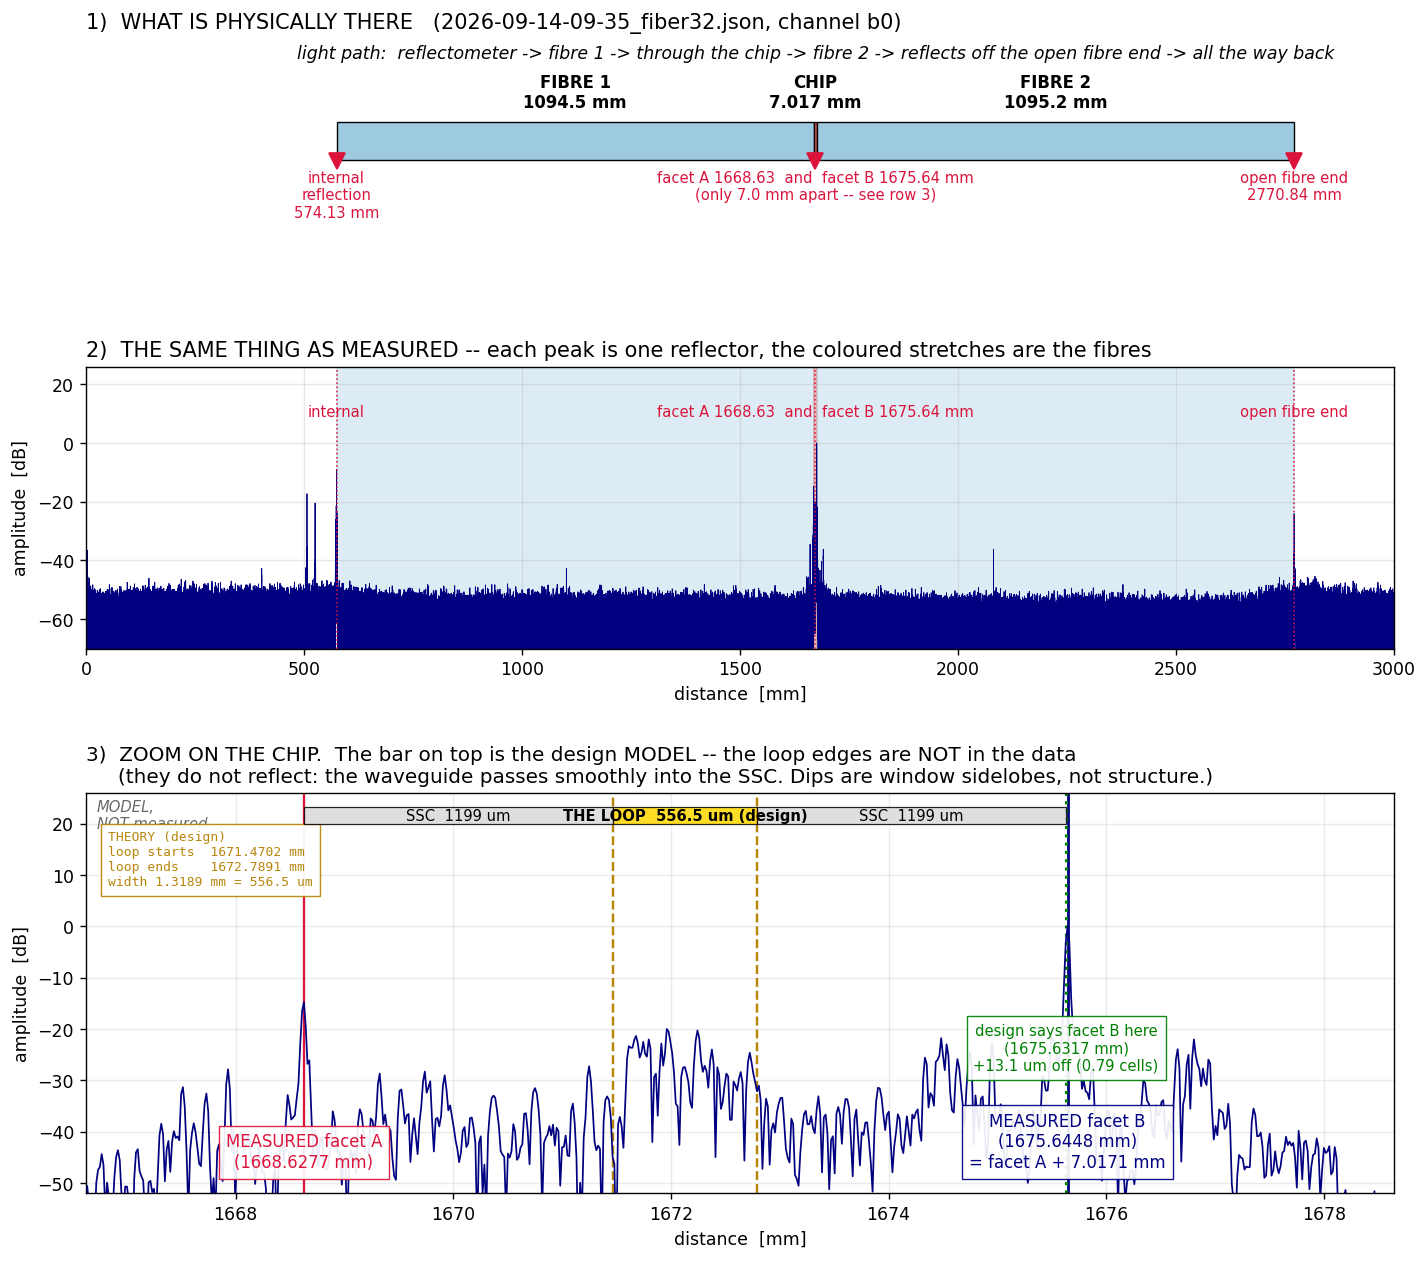
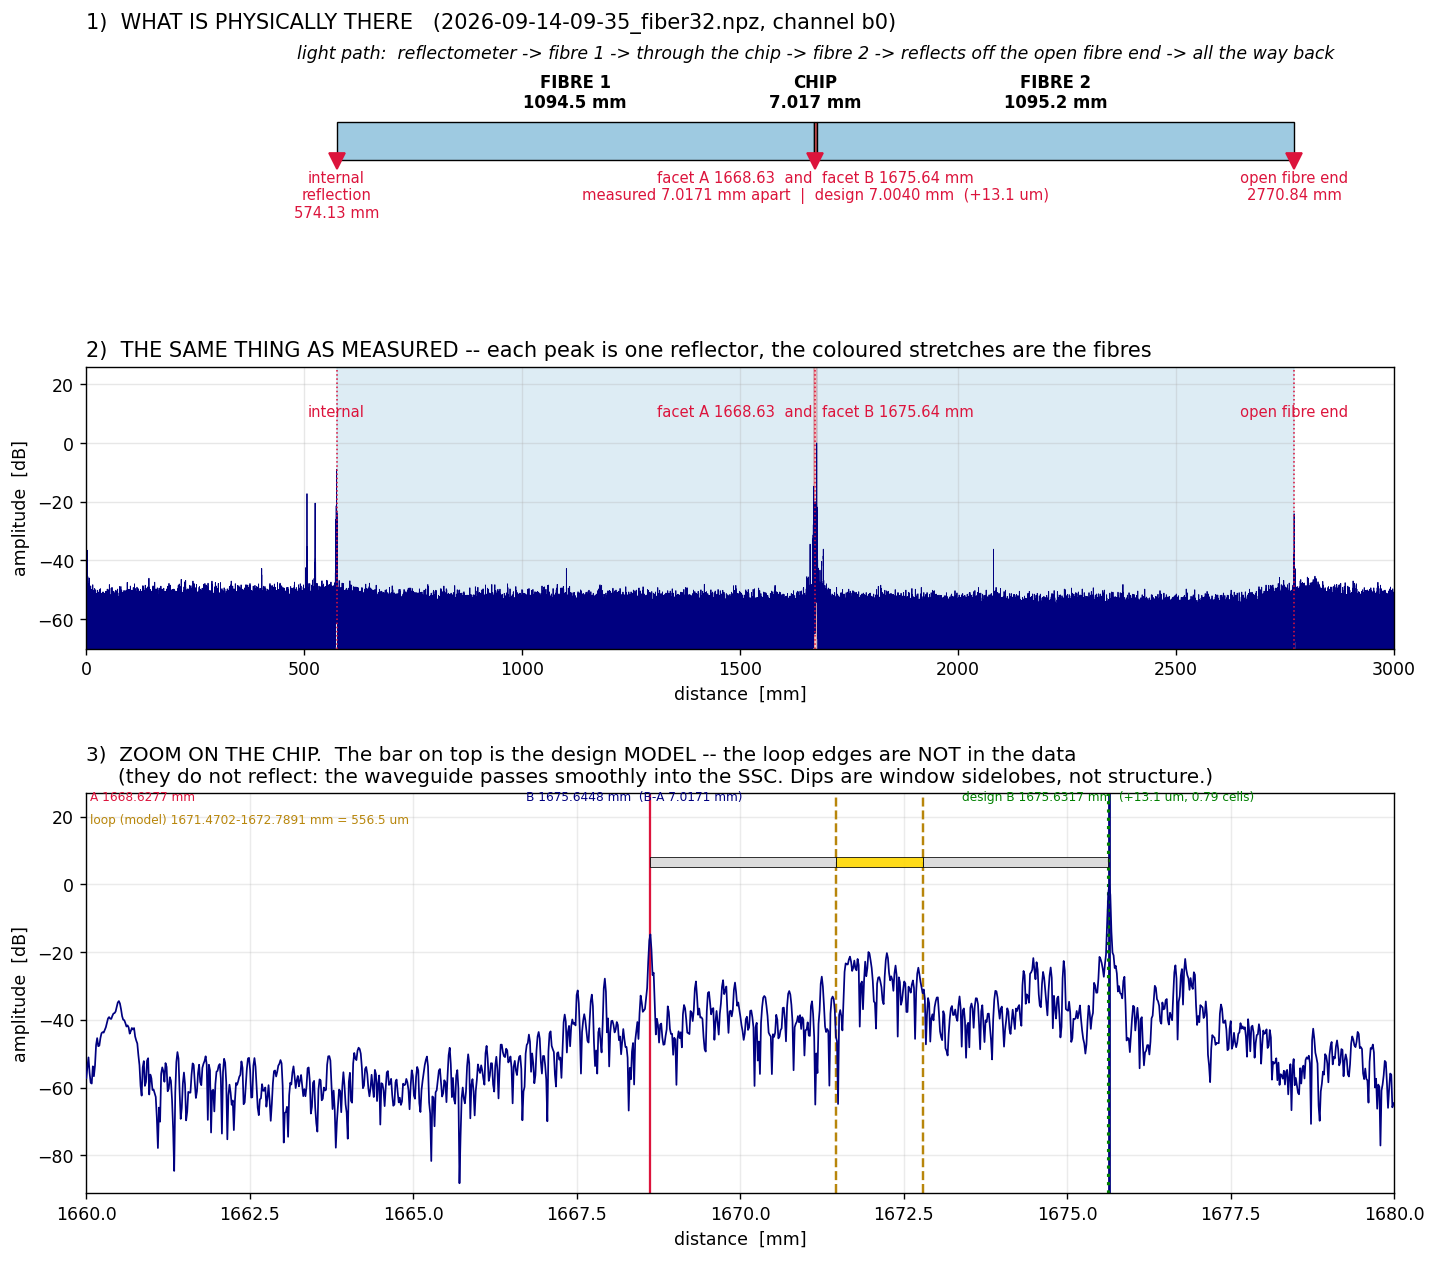
chain plot: uniform 1660-1680mm zoom, design comparison in row 1, saved pre-rescale snapshots
- Panel 3 (chip zoom) now uses a fixed x-window with in-view labels
  (facet A/B positions, measured vs design theory box, loop start/end
  lines) grouped into a compact label row at the top so the trace stays
  fully visible regardless of zoom width (--zoom LO HI).
- Row 1 schematic now also states the design (GDS) facet-to-facet
  distance next to the measured one, e.g. 'measured 7.1830 mm apart |
  design 7.2020 mm (-19.0 um)', for direct comparison at a glance.
- Applied --zoom 1660 1680 to all loopback chain plots from both
  2026-09-11 and 2026-09-14 for a consistent, readable view.
- Saved *_chain_default.png snapshots (generated from the last committed
  script version, i.e. the original wide-box layout) for today's three
  scans, preserving what the plot looked like before this session's
  layout rework.

diff --git a/tools/identify_chip_scan.py b/tools/identify_chip_scan.py
@@ -229,9 +229,14 @@ def chain_plot(a, z, db, ref, za, zb, d_ff, d_loop, res_mm, marks=None):
                     va="bottom", fontweight="bold")
     stations = [(ref, "internal\nreflection\n%.2f mm" % ref)]
     if zb is not None:
+        extra = ""
+        if d_ff:
+            design_apart = d_ff * 1e-3 * STR
+            extra = ("  |  design %.4f mm  (%+.1f um)"
+                     % (design_apart, (zb - za - design_apart) * 1e3))
         stations.append(((za + zb) / 2,
-                         "facet A %.2f  and  facet B %.2f mm\n(only %.1f mm apart "
-                         "-- see row 3)" % (za, zb, zb - za)))
+                         "facet A %.2f  and  facet B %.2f mm\n"
+                         "measured %.4f mm apart%s" % (za, zb, zb - za, extra)))
     else:
         stations.append((za, "facet A\n%.2f mm" % za))
     if far:
@@ -271,64 +276,70 @@ def chain_plot(a, z, db, ref, za, zb, d_ff, d_loop, res_mm, marks=None):
     # ---------------------------------------------------------- Reihe 3
     ax = fig.add_subplot(gs[2])
     span = (zb - za) if zb is not None else 12.0
-    w = (z > za - 2) & (z < za + span + 3)
+    # Fenster von Reihe 3: weit genug, um auch alles neben dem Chip zu
+    # sehen (Default rund 1500..2000 mm), mit --zoom LO HI einstellbar.
+    if getattr(a, "zoom", None):
+        lo3, hi3 = a.zoom
+    else:
+        lo3, hi3 = za - 170.0, za + 330.0
+    w = (z > lo3) & (z < hi3)
     ax.plot(z[w], db[w], lw=1.0, color="navy", zorder=3)
     ax.axvline(za, color="crimson", lw=1.3, zorder=2)
-    ax.annotate("MEASURED facet A\n(%.4f mm)" % za, (za, -47),
-                fontsize=9.5, ha="center", color="crimson",
-                bbox=dict(fc="w", ec="crimson", lw=.8, alpha=.92))
     if zb is not None:
         ax.axvline(zb, color="navy", lw=1.6, zorder=2)
-        ax.annotate("MEASURED facet B\n(%.4f mm)\n= facet A + %.4f mm"
-                    % (zb, zb - za), (zb, -47), fontsize=9.5, ha="center",
-                    color="navy", bbox=dict(fc="w", ec="navy", lw=.8, alpha=.92))
     if zb_e is not None:
         ax.axvline(zb_e, color="green", ls=":", lw=1.8, zorder=2)
-        ax.annotate("design says facet B here\n(%.4f mm)\n%+.1f um off (%.2f cells)"
-                    % (zb_e, (zb - zb_e) * 1e3, (zb - zb_e) / res_mm),
-                    (zb_e, -28), fontsize=8.5, ha="center", color="green",
-                    bbox=dict(fc="w", ec="green", lw=.8, alpha=.92))
 
+    # Alle Kennzahlen als kompakte Zeile(n) OBERHALB der Kurve statt als
+    # Kaesten mitten im Plot -- x in Achsen-Bruchteilen (bleibt also immer
+    # lesbar, egal wie breit --zoom das Fenster macht), y in echten
+    # Datenkoordinaten knapp ueber dem hoechsten sichtbaren Peak.
+    row_items = []
+    row_items.append(("A %.4f mm" % za, "crimson"))
+    if zb is not None:
+        row_items.append(("B %.4f mm  (B-A %.4f mm)" % (zb, zb - za), "navy"))
+    if zb_e is not None:
+        row_items.append(("design B %.4f mm  (%+.1f um, %.2f cells)"
+                          % (zb_e, (zb - zb_e) * 1e3, (zb - zb_e) / res_mm), "green"))
+
+    xs = None
     if d_ff:
         ssc = (d_ff - d_loop) / 2.0
-        yt, h = 20.0, 3.2
-        for s0, s1, c, lab in [(0, ssc, "#d9d9d9", "SSC  %.0f um" % ssc),
-                               (ssc, ssc + d_loop, "gold",
-                                "THE LOOP  %.1f um (design)" % d_loop),
-                               (ssc + d_loop, d_ff, "#d9d9d9", "SSC  %.0f um" % ssc)]:
-            ax.add_patch(Rectangle((za + s0 * 1e-3 * STR, yt),
-                                   (s1 - s0) * 1e-3 * STR, h,
-                                   fc=c, ec="k", lw=.7, alpha=.85, zorder=4))
-            ax.annotate(lab, (za + (s0 + s1) / 2 * 1e-3 * STR, yt + h / 2),
-                        fontsize=8.5, ha="center", va="center", zorder=5,
-                        fontweight="bold" if c == "gold" else "normal")
-        ax.annotate("MODEL,\nNOT measured", (za - 1.9, yt + h / 2), fontsize=8.5,
-                    ha="left", va="center", style="italic", color="dimgray")
-        # Anfang und Ende der Schleife: zwei Linien je Grenze.
-        #   gestrichelt = THEORIE (Designlage aus dem GDS)
-        #   durchgezogen = MESSUNG (naechstliegender echter Peak)
-        # Vorbehalt, der in der Beschriftung steht: die Schleifenenden
-        # reflektieren laut Design gar nicht, der naechste Peak ist also
-        # nicht automatisch die Schleifengrenze -- die Linie zeigt nur,
-        # was dort tatsaechlich gemessen wurde.
-        # THEORIE: zwei gestrichelte Linien, ein gemeinsames Label
         xs = [za + s_um * 1e-3 * STR for s_um in (ssc, ssc + d_loop)]
         for xx in xs:
             ax.axvline(xx, color="darkgoldenrod", ls="--", lw=1.4, zorder=2)
-        ax.annotate("THEORY (design)\nloop starts  %.4f mm\nloop ends    %.4f mm\n"
-                    "width %.4f mm = %.1f um" % (xs[0], xs[1], xs[1] - xs[0], d_loop),
-                    (za - 1.8, 13.0), fontsize=7.5, ha="left", va="center",
-                    color="darkgoldenrod", family="monospace",
-                    bbox=dict(fc="w", ec="darkgoldenrod", lw=.8, alpha=.94))
+        row_items.append(("loop (model) %.4f-%.4f mm = %.1f um"
+                          % (xs[0], xs[1], d_loop), "darkgoldenrod"))
 
     for dzm, lab in (marks or []):
         ax.axvline(za + dzm, color="seagreen", ls=":", lw=1.2, zorder=2)
-        ax.annotate("%s\n(%.3f mm)" % (lab, za + dzm), (za + dzm, -12),
-                    fontsize=8, ha="center", color="darkgreen",
-                    bbox=dict(fc="w", ec="seagreen", lw=.7, alpha=.9))
+        row_items.append(("%s %.3f mm" % (lab, za + dzm), "darkgreen"))
 
-    ax.set_xlim(za - 2, za + span + 3)
-    ax.set_ylim(-52, 26)
+    max_peak = float(np.max(db[w])) if w.any() else 0.0
+    bar_y0 = max(max_peak + 4.0, 5.0)
+    bar_h = 3.0
+    text_y0 = bar_y0 + (bar_h + 2.0 if d_ff else 0.0)
+    row_h = 7.0
+    ncols = 3
+    col_w = 1.0 / ncols
+    n_rows = -(-len(row_items) // ncols)  # ceil
+    for i, (txt, col) in enumerate(row_items):
+        r, c_idx = divmod(i, ncols)
+        ax.annotate(txt, xy=(0.003 + c_idx * col_w, text_y0 + row_h * (n_rows - r)),
+                    xycoords=("axes fraction", "data"), fontsize=7, ha="left",
+                    va="bottom", color=col, clip_on=False)
+
+    if xs is not None:
+        for s0, s1, c in [(0, ssc, "#d9d9d9"),
+                          (ssc, ssc + d_loop, "gold"),
+                          (ssc + d_loop, d_ff, "#d9d9d9")]:
+            ax.add_patch(Rectangle((za + s0 * 1e-3 * STR, bar_y0),
+                                   (s1 - s0) * 1e-3 * STR, bar_h,
+                                   fc=c, ec="k", lw=.5, alpha=.9, zorder=4))
+
+    ax.set_xlim(lo3, hi3)
+    ax.set_ylim(min(-52.0, float(np.min(db[w])) - 3.0),
+                text_y0 + row_h * n_rows + 3.0)
     ax.set_xlabel("distance  [mm]")
     ax.set_ylabel("amplitude  [dB]")
     ax.grid(alpha=.25)
@@ -361,6 +372,8 @@ def main():
                     help="Kanal direkt angeben, z.B. b27 (Alternative zu --fiber)")
     ap.add_argument("--scan-ng", action="store_true",
                     help="Score ueber n_g=3.0..4.0 auftragen (Bestimmbarkeitstest)")
+    ap.add_argument("--zoom", nargs=2, type=float, metavar=("LO", "HI"),
+                    help="x range of row 3 in mm, e.g. --zoom 1500 2000. Default: facet A -170 .. +330 mm")
     ap.add_argument("--out", default=None,
                     help="Prefix fuer die Ausgaben. Ohne Angabe automatisch "
                          "results/<Datum>/<Scanname> -- Datum aus dem "
